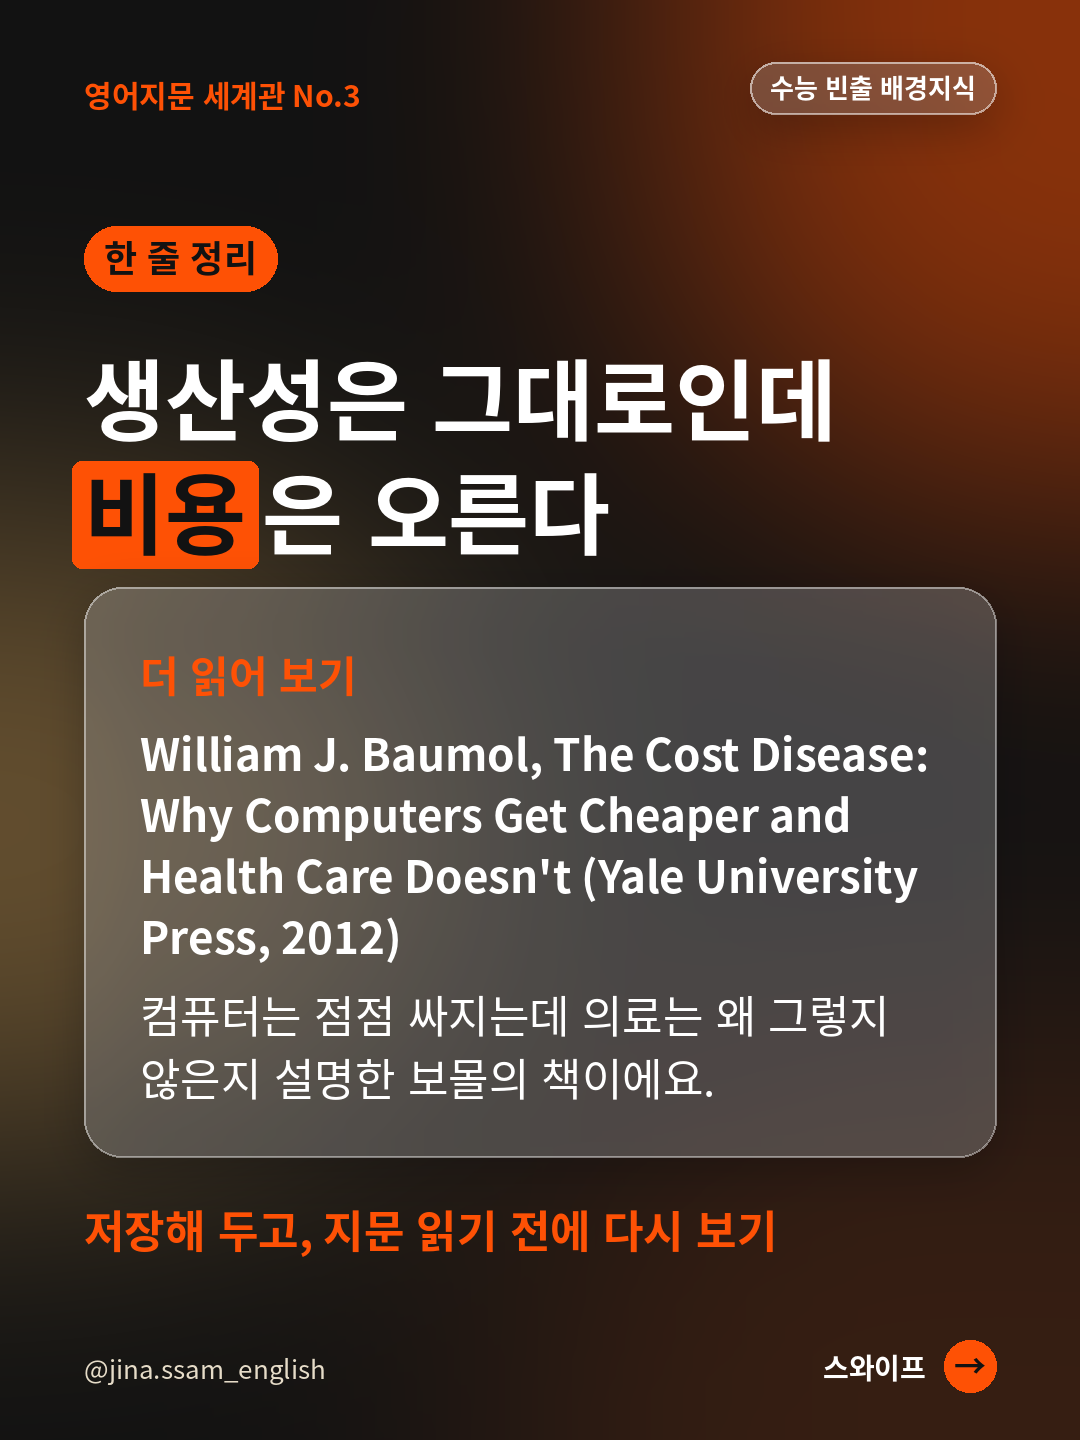
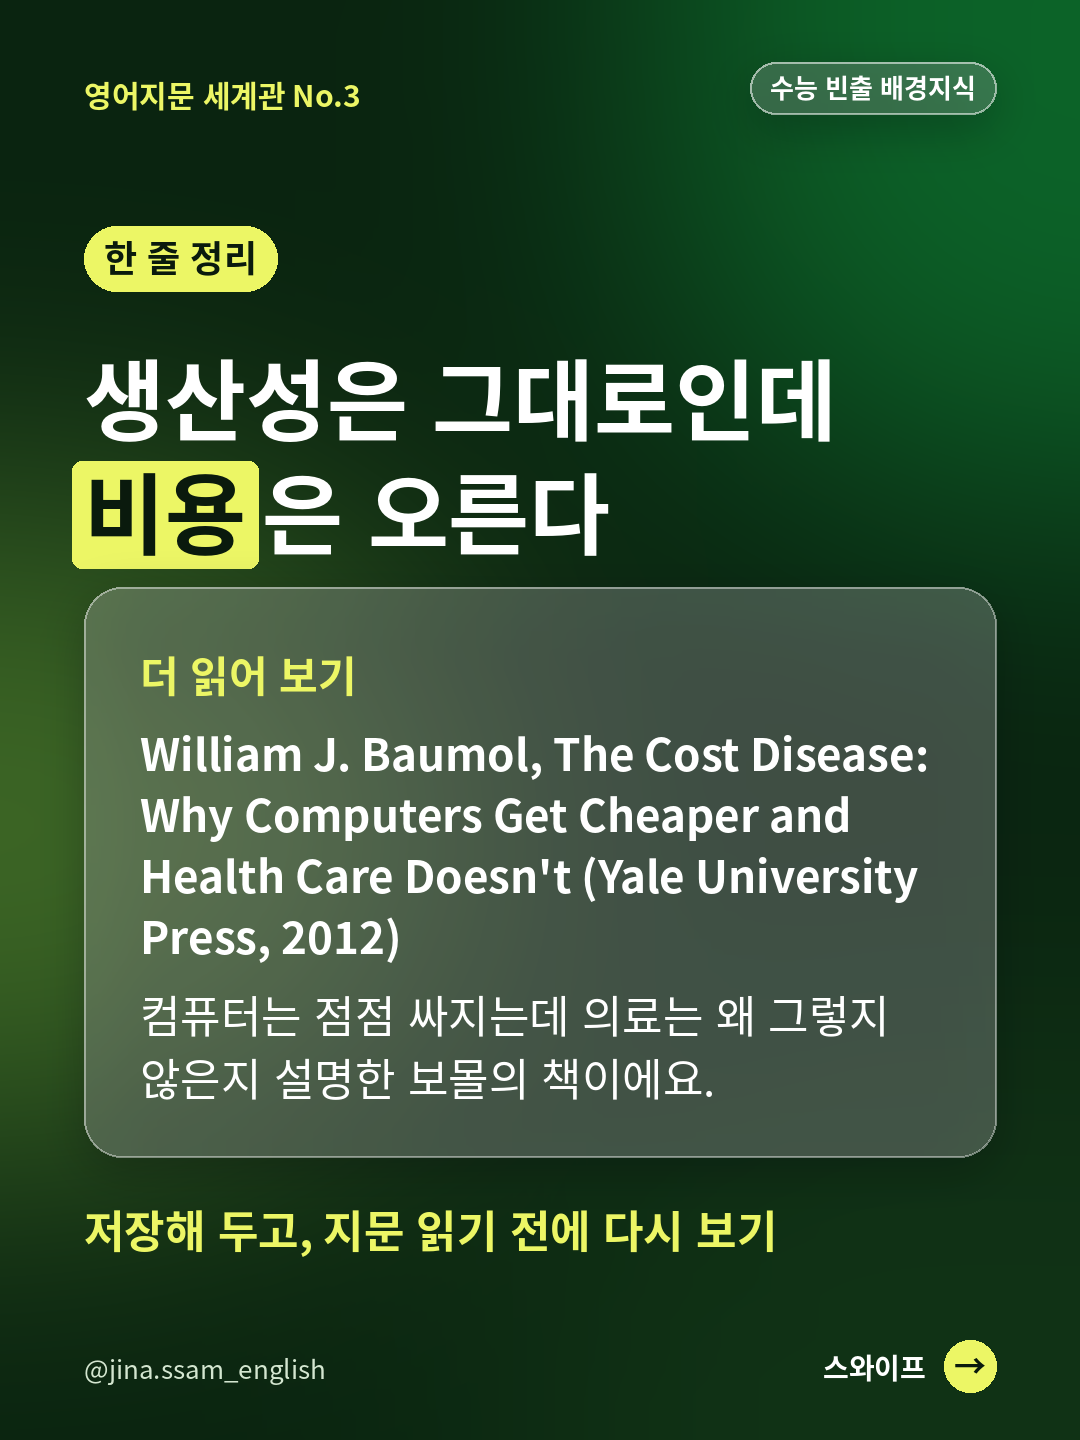
Recolor No.3 glass carousel to green chip; add color-rotation rule
Claude-Session: https://claude.ai/code/session_01Wy1t89MoYtcTzxhXFEcNJ8

diff --git a/jina-carousel/glass_no03_baumol.py b/jina-carousel/glass_no03_baumol.py
@@ -1,7 +1,7 @@
 import sys; sys.path.insert(0,'.')
 from engine import *
-# 컬러칩 7: Charcoal #121212 · Warm White #FDF9EA · Performance Orange #FE5105
-th=Theme(base='#121212',blobs=['#FE5105','#B58B4C','#5A2A12'],acc='#FE5105',acc_txt='#121212',soft='#E6DCC8',dim=0.5)
+# 컬러칩 8: Court Green #0FA241 · Spruce Green #17411B · Tennis Yellow #ECF665
+th=Theme(base='#0A2410',blobs=['#0FA241','#6FA83A','#17411B'],acc='#ECF665',acc_txt='#0A1A0D',soft='#D4E6D0',dim=0.5)
 NO='No.3'
 S=[]
 # 1 표지

diff --git a/jina-carousel/RULES.md b/jina-carousel/RULES.md
@@ -16,7 +16,7 @@
 
 ## 2. 주제 캐러셀 (글라스모피즘)
 - 규격 1080×1440 (3:4). 글라스모피즘(흐린 그라데이션 배경 + 반투명 유리 카드).
-- 색은 jina-color-chips 칩을 편마다 돌려 쓴다. 보라 한 가지로 쏠리지 않게. (No.1은 27번 잉크 네이비·코랄)
+- **색은 jina-color-chips 칩을 편마다 색상군을 번갈아 쓴다.** 보라 쏠림 금지. 배경 빛번짐 색도 그 편의 색상군 안에서만 쓰고, 주황·빨강 번짐을 공통으로 깔지 않는다. 사용 기록: No.1 네이비·코랄(27번), No.2 블루(4번), No.3 초록(8번). 다음 후보: 핑크·마젠타(11번), 하늘·청록, 노랑·올리브.
 - 구성 (페이지 번호는 넣지 않는다. 장을 따로 떼어 써도 되게):
   1. 표지: 고정 배치. 시리즈 번호(No.) + 대표 어휘 훅(예: "공짜 앱의 비밀") + 질문 한 줄 + 수능 문항 도장 마크(예: "2025 수능 33번 출제") + 오늘 읽을 개념
   2. 미니 퀴즈 ① (읽기 전): 궁금증을 만드는 4지선다. 정답은 본문에 나온다.
@@ -60,7 +60,7 @@
 ## 7. 진행 현황 (2026-11-24)
 - No.1 공짜 앱의 비밀(주의 경제): 글라스 12장 + 수준별 지문 11장 + 노션 회차 페이지 완료.
 - No.2 확증 편향의 함정: 글라스 15장(지나쌤 한마디 포함) + 수준별 지문 11장 + 노션 회차 페이지 완료. 컬러칩 4.
-- No.3 보몰의 비용 질병: 글라스 15장(지나쌤 한마디 포함) + 수준별 지문 11장 + 노션 회차 페이지 완료. 컬러칩 7. (지나쌤이 던진 질문 "공연 티켓 비용은 어떻게 결정될까?"는 이번 편이 비용 쪽만 다뤄서, 가격 결정 전체를 다루는 후속 주제 후보로 남겨 둠)
+- No.3 보몰의 비용 질병: 글라스 15장(지나쌤 한마디 포함) + 수준별 지문 11장 + 노션 회차 페이지 완료. 컬러칩 8(초록). (지나쌤이 던진 질문 "공연 티켓 비용은 어떻게 결정될까?"는 이번 편이 비용 쪽만 다뤄서, 가격 결정 전체를 다루는 후속 주제 후보로 남겨 둠)
 - 다음: No.4 (주제 관리표 순서 4번 돌연변이와 적응도). 지나쌤 한마디 질문은 편마다 먼저 보낸다.
 - 기존 6편(배차 간격, 대기 시간의 심리, coopetition, 팃포탯, 오작동 방지, 기본값 효과)은 새 형식으로 다시 만든다.
 
